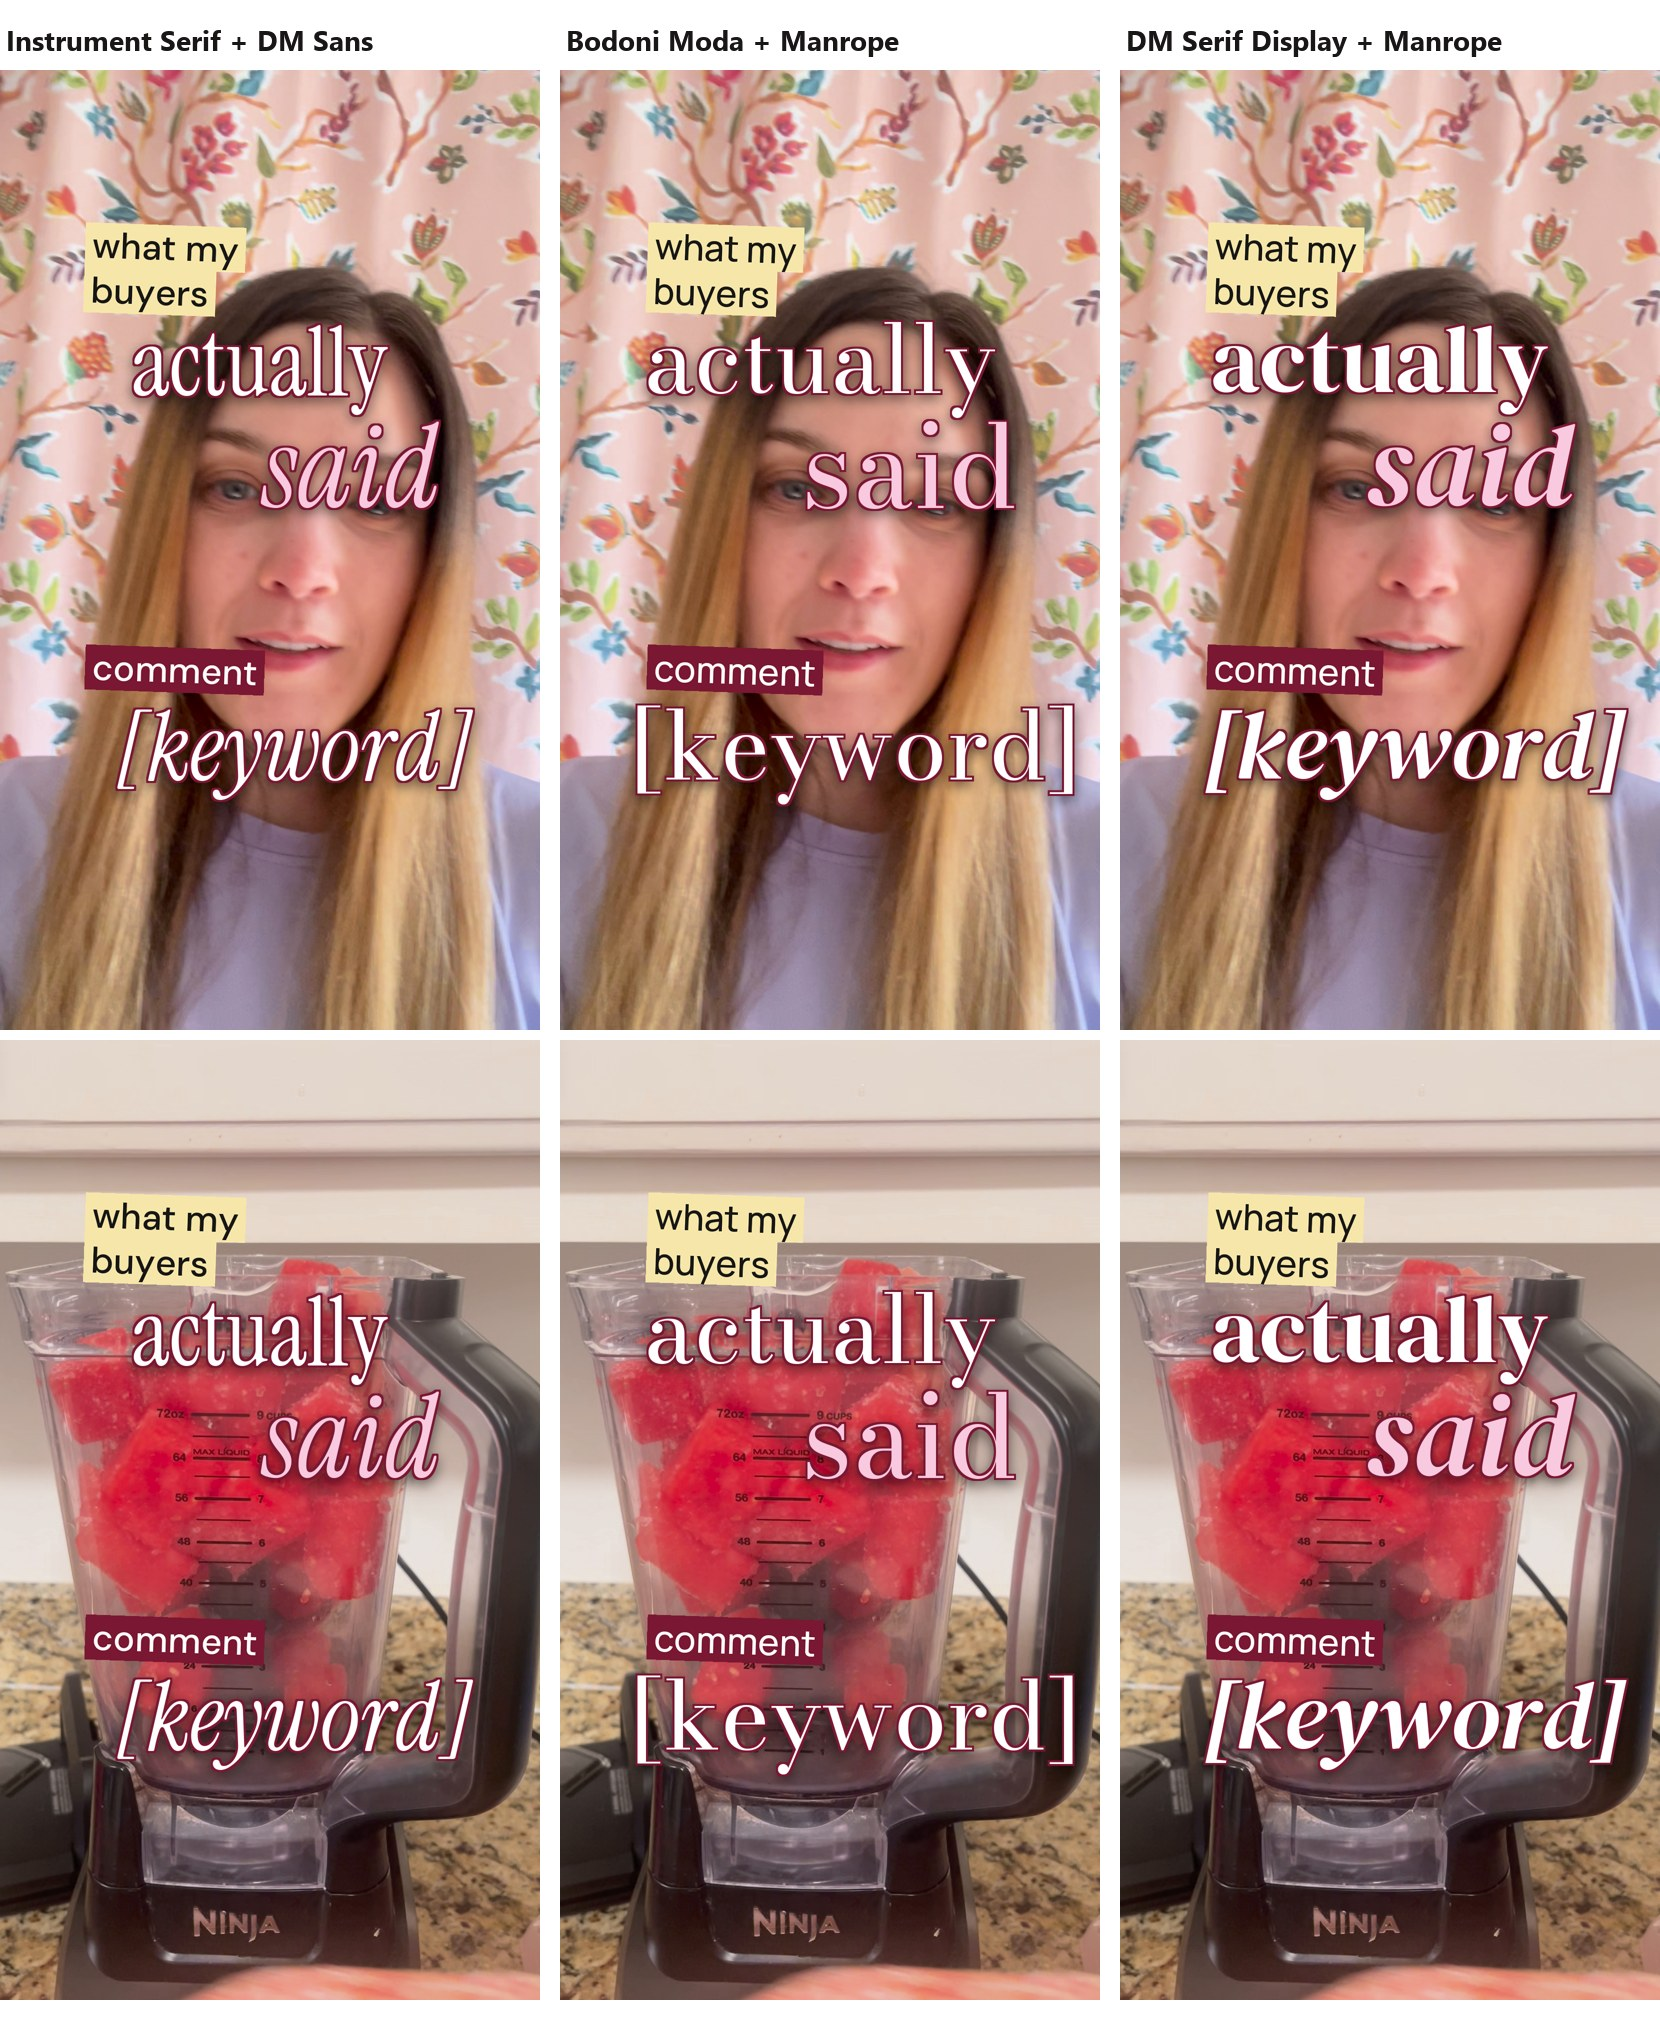
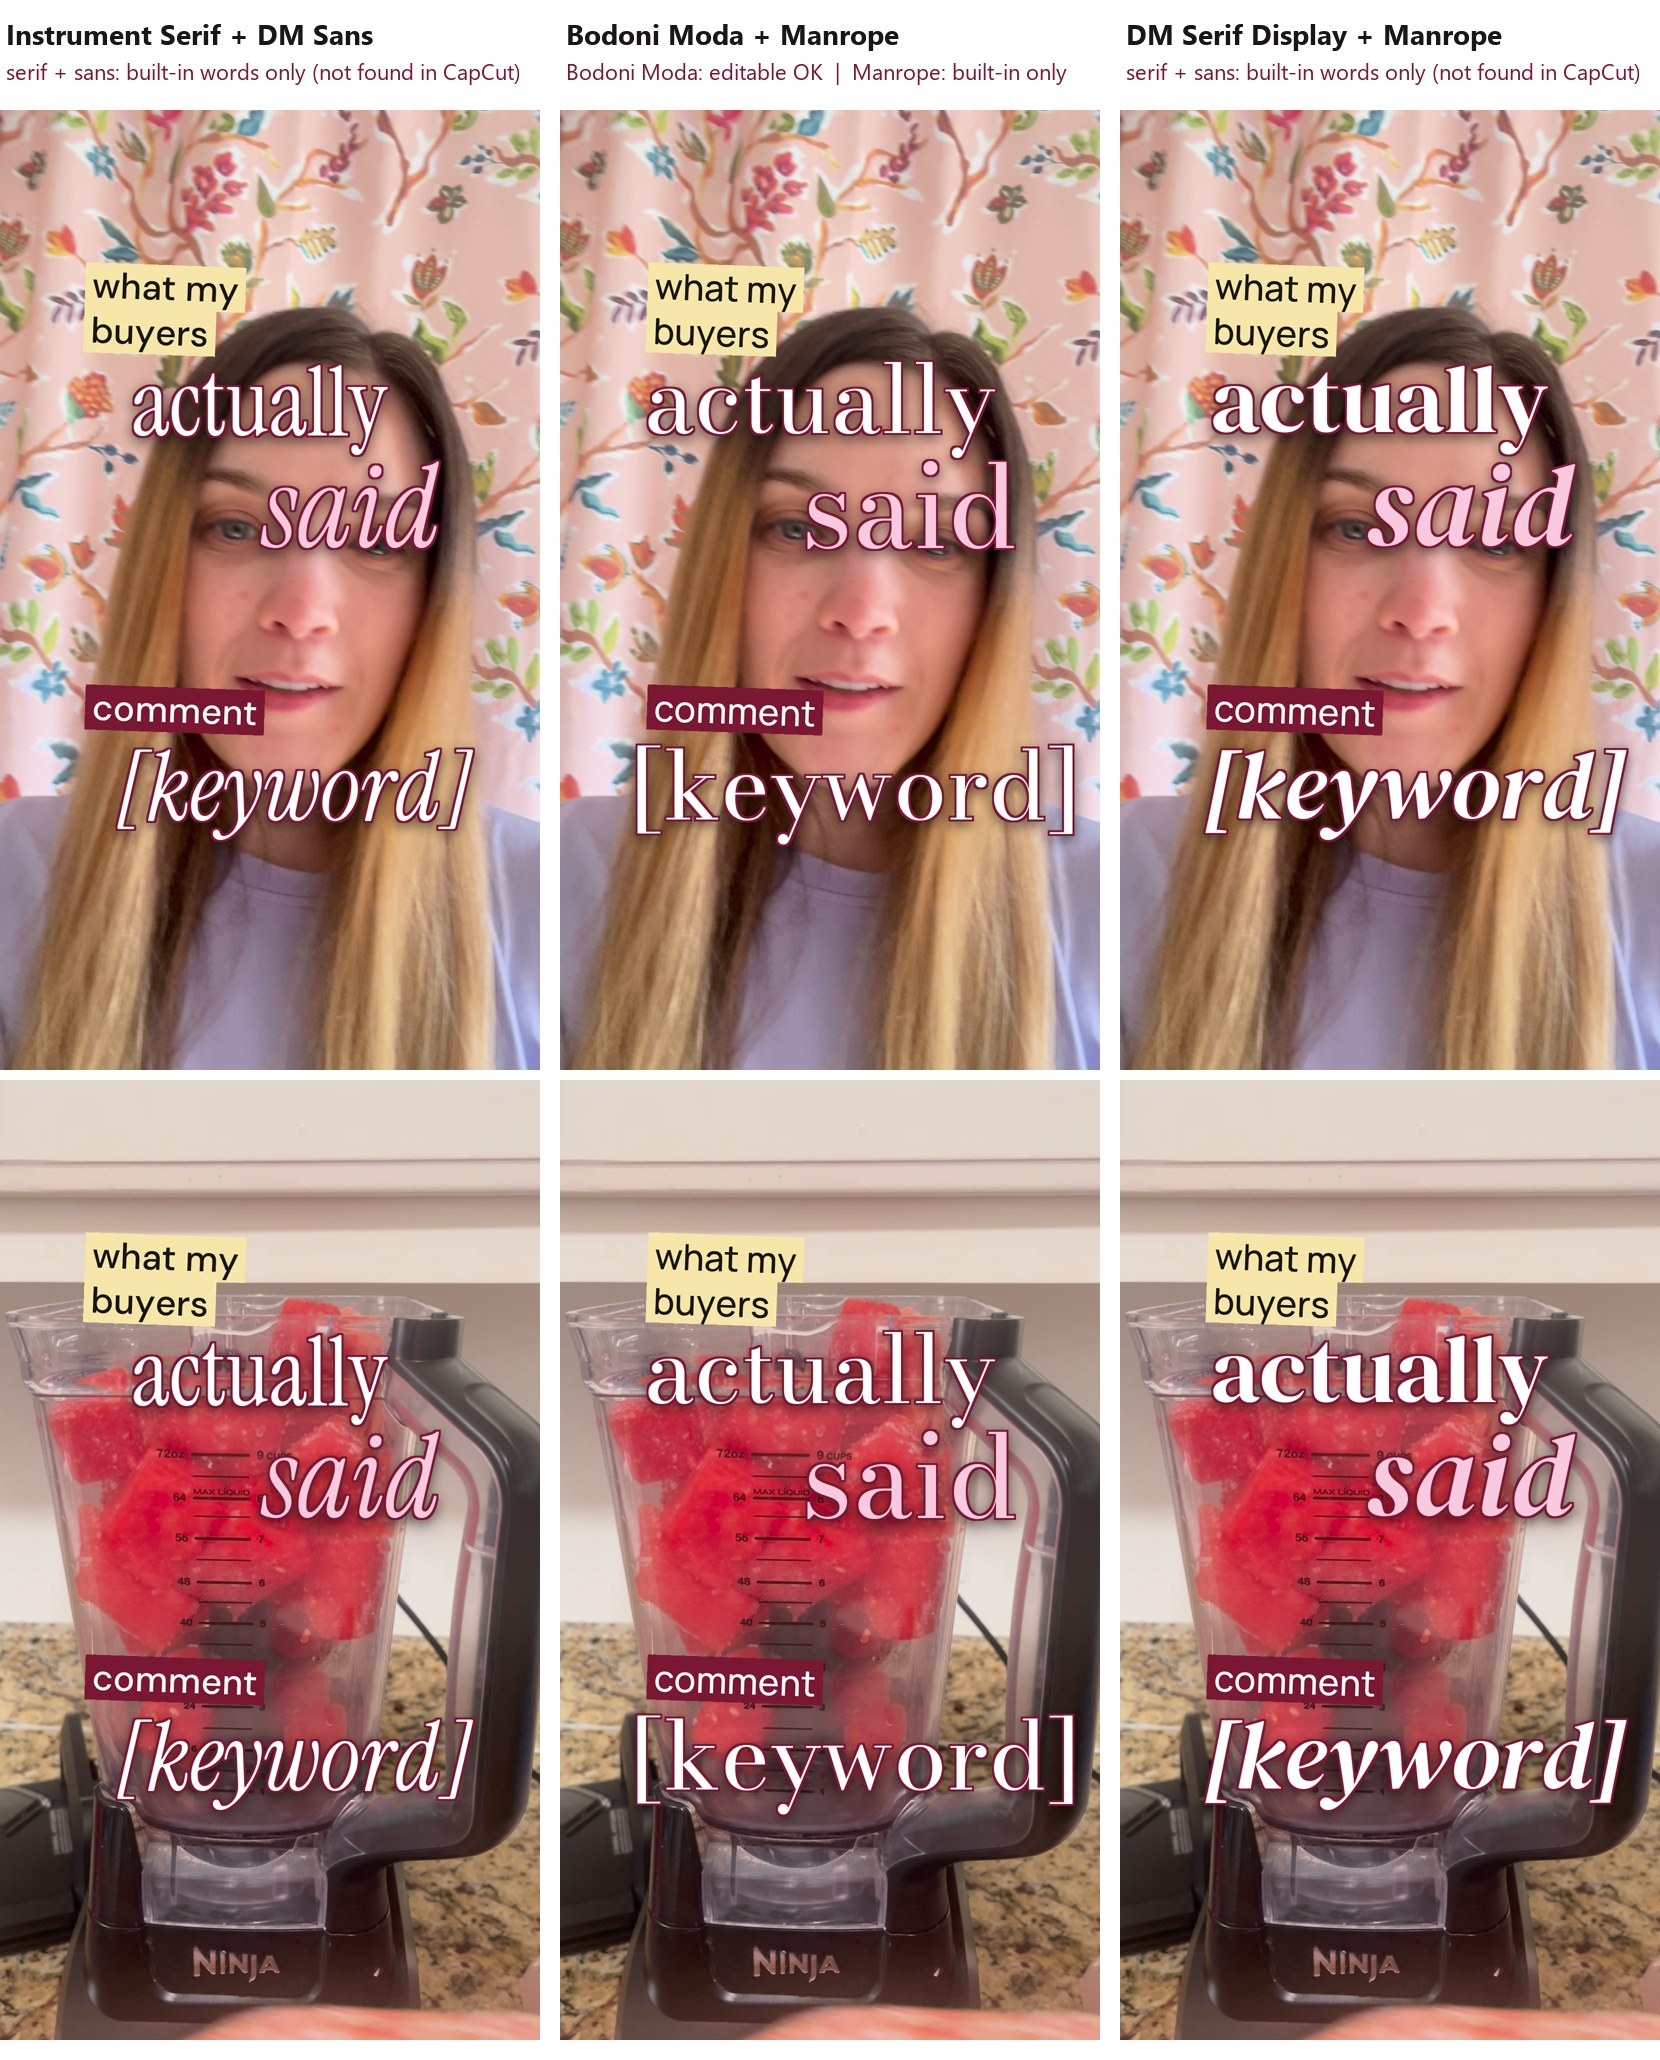
Reel Template Packs: CapCut font check marked on the pairings sheet

diff --git a/automation/reel-template-pack/build/type_pairs.py b/automation/reel-template-pack/build/type_pairs.py
@@ -18,6 +18,7 @@ def font(name, px, wght=None):
         except Exception: pass
     return f
 
+NOTES = ['serif + sans: built-in words only (not found in CapCut)', 'Bodoni Moda: editable OK  |  Manrope: built-in only', 'serif + sans: built-in words only (not found in CapCut)']
 PAIRS = [('Instrument Serif + DM Sans', FD / 'instrumentserif-InstrumentSerif-Regular.ttf', FD / 'instrumentserif-InstrumentSerif-Italic.ttf', FD / 'dmsans-DMSans[opsz,wght].ttf'),
          ('Bodoni Moda + Manrope', S.E.font_file('7580184437816675601'), S.E.font_file('7580184437816675601'), FD / 'manrope-Manrope[wght].ttf'),
          ('DM Serif Display + Manrope', FD / 'dmserifdisplay-DMSerifDisplay-Regular.ttf', FD / 'dmserifdisplay-DMSerifDisplay-Italic.ttf', FD / 'manrope-Manrope[wght].ttf')]
@@ -49,10 +50,10 @@ def frame(clip, pair):
 
 def main():
     clips = [('IMG_1469', 1.0), ('IMG_1388', 0.5)]
-    sheet = Image.new('RGB', (3 * 540 + 40, 2 * 960 + 100), 'white'); d = ImageDraw.Draw(sheet); f = S.F('C:/Windows/Fonts/segoeuib.ttf', 28)
+    sheet = Image.new('RGB', (3 * 540 + 40, 2 * 960 + 140), 'white'); d = ImageDraw.Draw(sheet); f = S.F('C:/Windows/Fonts/segoeuib.ttf', 28); fs = S.F('C:/Windows/Fonts/segoeui.ttf', 22)
     for c, pair in enumerate(PAIRS):
-        d.text((c * 560 + 6, 20), pair[0], font=f, fill=INK)
-        for r, cl in enumerate(clips): sheet.paste(frame(cl, pair).convert('RGB').resize((540, 960)), (c * 560, 70 + r * 970))
+        d.text((c * 560 + 6, 14), pair[0], font=f, fill=INK); d.text((c * 560 + 6, 56), NOTES[c], font=fs, fill=(122, 23, 50))
+        for r, cl in enumerate(clips): sheet.paste(frame(cl, pair).convert('RGB').resize((540, 960)), (c * 560, 110 + r * 970))
     out = S.E.PACK / 'type-pairings.jpg'; sheet.save(out, quality=88); print(out)
 
 if __name__ == '__main__':

diff --git a/automation/reel-template-pack/round3-notes.md b/automation/reel-template-pack/round3-notes.md
@@ -114,3 +114,8 @@ DM Sans, Manrope, DM Serif Display are free Google Fonts (SIL OFL) that would ne
 CapCut's library has them for editable text.
 - On type-pairings.jpg: "would maybe not do those [colours] all together, but don't HATE it". Palette now butter
   #F7E6A9, wine #7A1732, pink #F9C9DF + baby blue (~#BFD9F2). Each template uses ONE or TWO of them, never all at once.
+- CapCut font check (her CapCut's downloaded cache, read by each file's family name): Bodoni Moda IS there (library id
+  7580184437816675601) = editable OK. Instrument Serif, DM Sans, Manrope, DM Serif Display are NOT in her cache (the
+  cache only holds fonts she has used, so CapCut's online library may still have them: search the font panel to
+  confirm). Until confirmed they are built-in words only. Sans fonts confirmed in CapCut for editable text: Montserrat,
+  Inter, Poppins.
